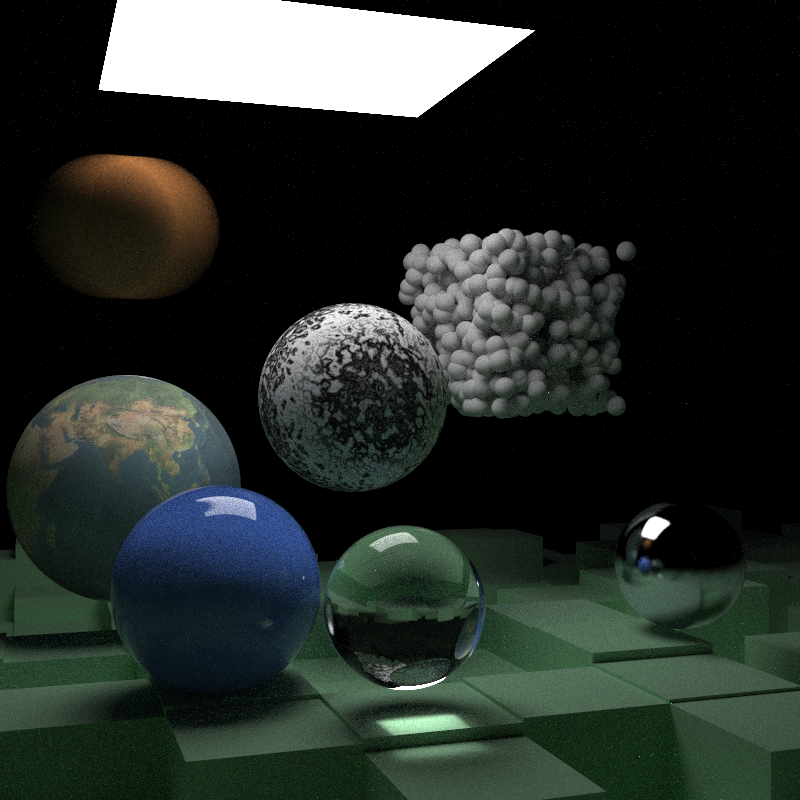
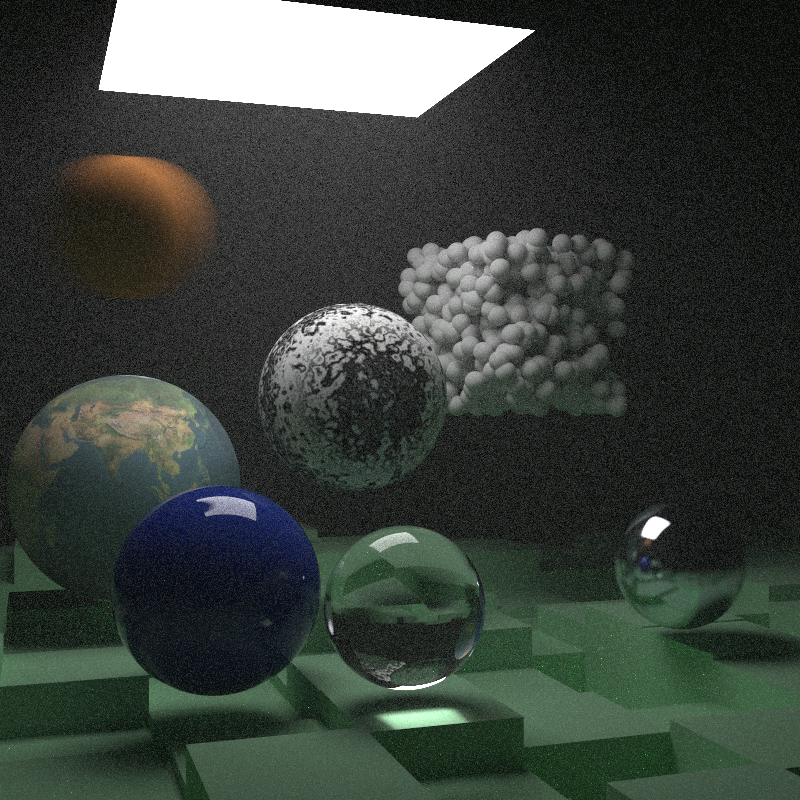
cover scene Ray Tracing: the next week

diff --git a/ray_tracing_examples/src/ray_tracing_2/main.rs b/ray_tracing_examples/src/ray_tracing_2/main.rs
@@ -197,7 +197,7 @@ fn main() -> Result<(), Box<dyn Error>> {
         80.0,
         Arc::new(Lambertian::new(Arc::new(NoiseTexture::new(
             0.1,
-            NoiseType::SinZ,
+            NoiseType::SinX,
             Arc::new(ConstantTexture::new(ColorRGBA::new(0.0, 0.0, 0.0, 1.0))),
             Arc::new(ConstantTexture::new(ColorRGBA::new(1.0, 1.0, 1.0, 1.0))),
         )))),
